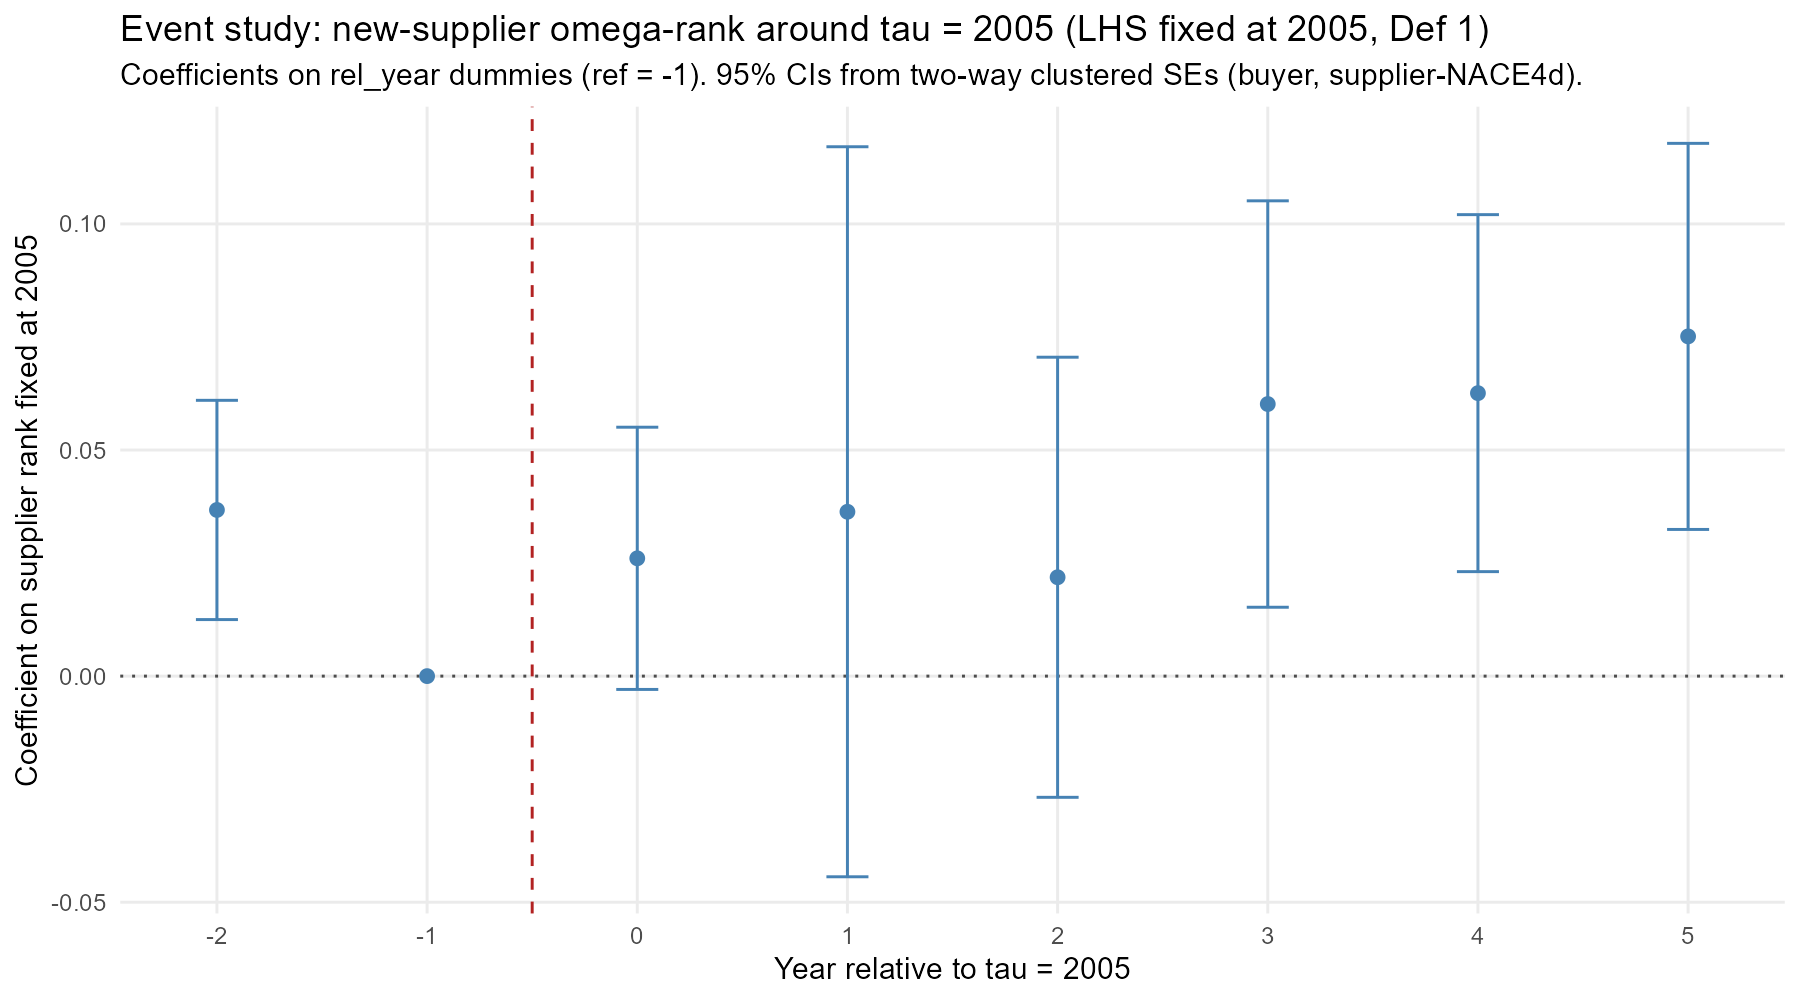
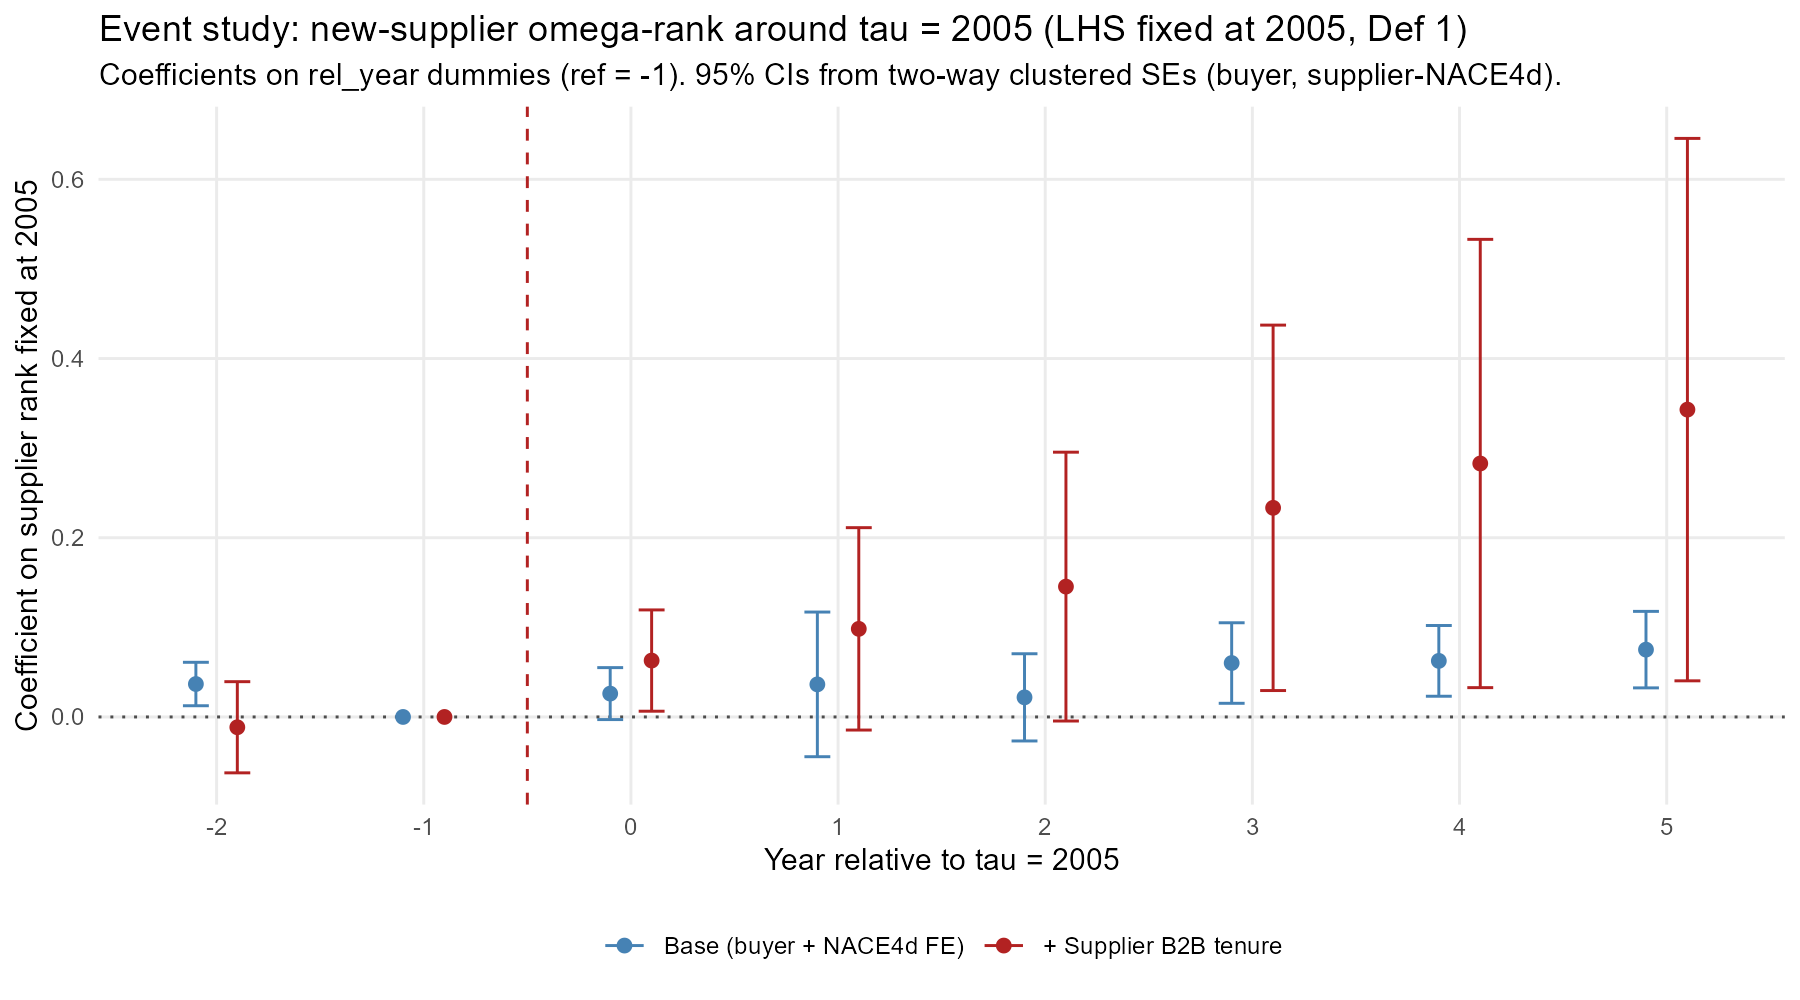
fix pre-trends in omega rank

diff --git a/output_rmd/tables/phase4_new_relationships_omega_rank_did_coefs.tex b/output_rmd/tables/phase4_new_relationships_omega_rank_did_coefs.tex
@@ -1,5 +1,5 @@
 % latex table generated in R 4.4.1 by xtable 1.8-4 package
-% Fri May 15 17:30:38 2026
+% Fri May 15 18:07:55 2026
 \begin{table}[ht]
 \centering
 \caption{Pooled post-tau DiD on supplier omega-rank fixed at tau-1 (Def 1: allowance shortage / total cost). Two-way clustered SEs (buyer, supplier-NACE4d).} 
@@ -8,9 +8,13 @@
 tau & sample & n\\_obs & beta & se & p \\ 
   \midrule
  2005 & full & 40381 & 0.0217 & 0.0193 & 0.2650 \\ 
+   2005 & full & 40381 & 0.0362 & 0.0437 & 0.4113 \\ 
    2005 & drop NACE 3511 & 28304 & 0.0393 & 0.0170 & 0.0236 \\ 
+   2005 & drop NACE 3511 & 28304 & 0.0674 & 0.0412 & 0.1062 \\ 
    2017 & full & 45572 & 0.0189 & 0.0131 & 0.1538 \\ 
+   2017 & full & 45572 & -0.0642 & 0.0516 & 0.2184 \\ 
    2017 & drop NACE 3511 & 24698 & 0.0233 & 0.0173 & 0.1813 \\ 
+   2017 & drop NACE 3511 & 24698 & -0.0850 & 0.0634 & 0.1847 \\ 
    \bottomrule
 \end{tabular}
 \end{table}
